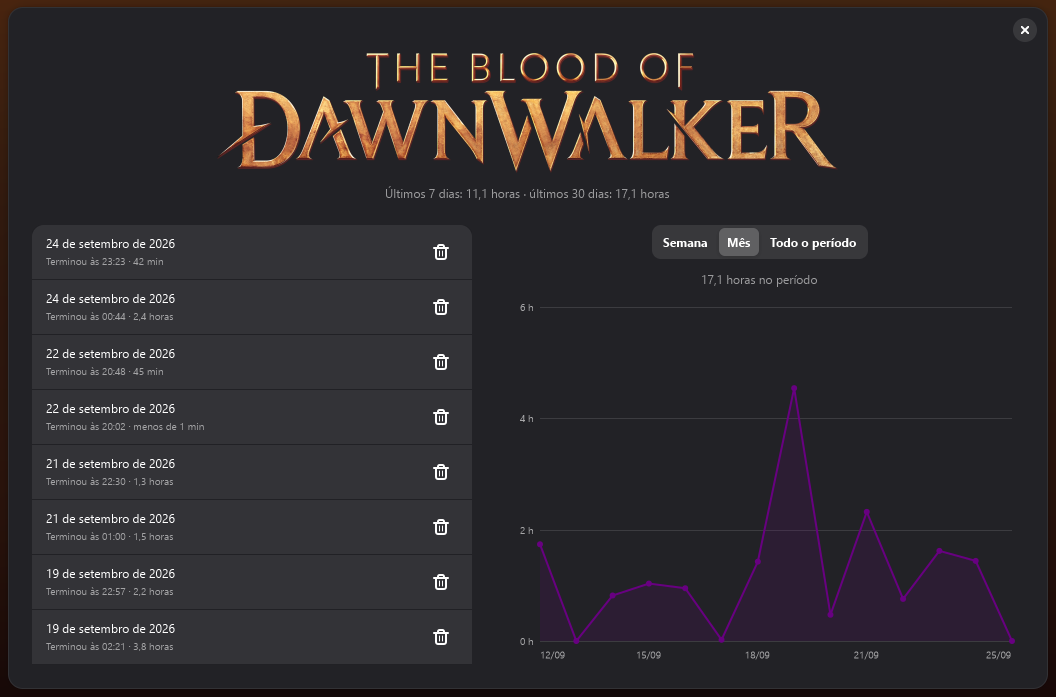
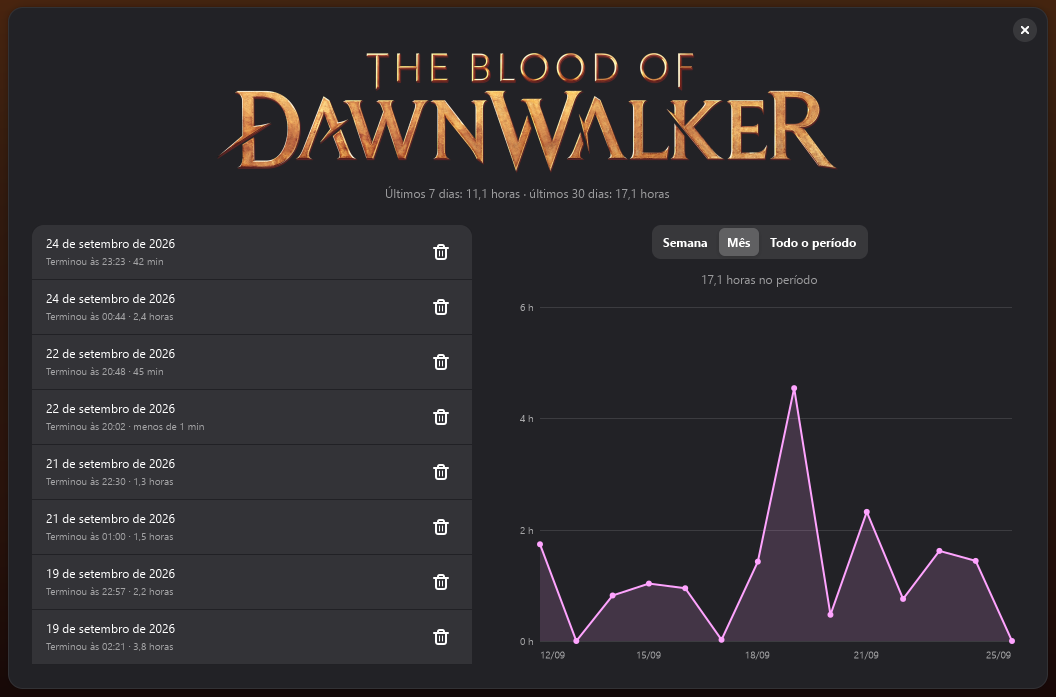
Cor de destaque do Windows fica legível como texto no tema escuro
O realce do Windows ia cru para --accent-color, e o roxo escuro sumia
sobre o fundo escuro (versão na tela Sobre, linha do gráfico de horas).
Agora --accent-color passa pela mesma fórmula do Libadwaita.

diff --git a/cartridges/main.py b/cartridges/main.py
@@ -372,8 +372,12 @@ class CartridgesApplication(Adw.Application):
                     Gtk.STYLE_PROVIDER_PRIORITY_USER,
                 )
             # Reescrever o provider já instalado atualiza a cor ao vivo.
+            # --accent-color é cor de texto sobre o fundo: a mesma fórmula do
+            # Libadwaita a clareia no tema escuro (o realce do Windows costuma
+            # ser escuro demais para texto).
             self._accent_provider.load_from_string(
-                f":root {{ --accent-bg-color: {accent}; --accent-color: {accent}; }}"
+                f":root {{ --accent-bg-color: {accent}; "
+                f"--accent-color: oklab(from {accent} var(--standalone-color-oklab)); }}"
             )
         except OSError:
             pass
